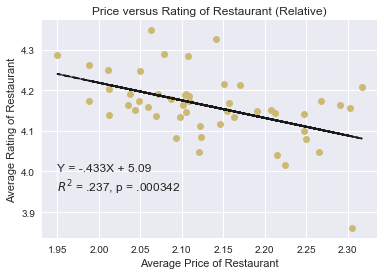
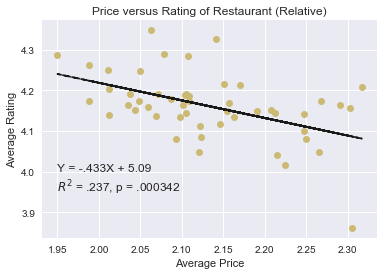
better charts

diff --git a/README.md b/README.md
@@ -289,7 +289,7 @@ plt.plot(x,y, 'yo', x, fit_fn(x), '--k')
 plt.text(x=30,y=4,s='Y = .00447X + 4.05')
 plt.text(x=30,y=3.95,s='$R^{2}$ = .628, p = 7.17E-12')
 plt.xlabel('Closeness of Restaurants')
-plt.ylabel('Average Price')
+plt.ylabel('Average Rating')
 plt.title('Rating versus Distance of Restaurant (Relative)')
 plt.show()
 print(linregress(x,y))
@@ -309,8 +309,8 @@ y=h.Rating
 fit = np.polyfit(x,y,1)
 fit_fn = np.poly1d(fit) 
 plt.plot(x,y, 'yo', x, fit_fn(x), '--k')
-plt.xlabel('Average Price of Restaurant')
-plt.ylabel('Average Rating of Restaurant')
+plt.xlabel('Average Price')
+plt.ylabel('Average Rating')
 plt.text(x=1.95,y=4,s='Y = -.433X + 5.09')
 plt.text(x=1.95,y=3.95,s='$R^{2}$ = .237, p = .000342')
 plt.title('Price versus Rating of Restaurant (Relative)')
@@ -592,8 +592,8 @@ fit_fn = np.poly1d(fit)
 plt.plot(x,y, 'yo', x, fit_fn(x), '--k')
 plt.text(x=1.8,y=4,s='Y = -.112X + 4.38')
 plt.text(x=1.8,y=3.96,s='$R^{2}$ = .026, p = .320')
-plt.xlabel('Average Price of Restaurant')
-plt.ylabel('Average Rating of Restaurant')
+plt.xlabel('Average Price')
+plt.ylabel('Average Rating')
 plt.title('Price versus Rating of Restaurant (Absolute)')
 plt.show()
 print(linregress(x,y))
